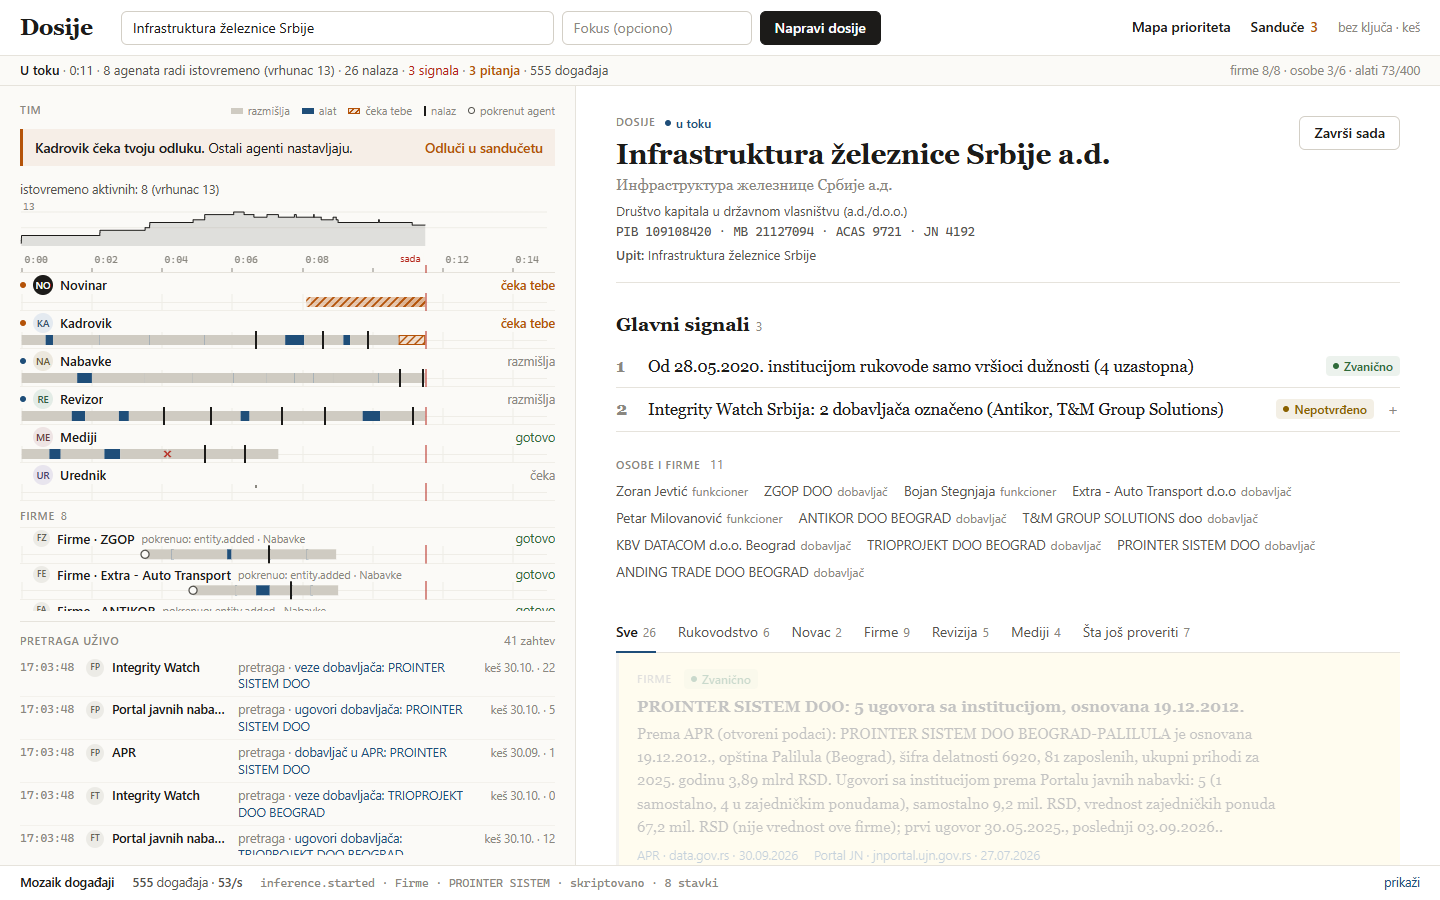
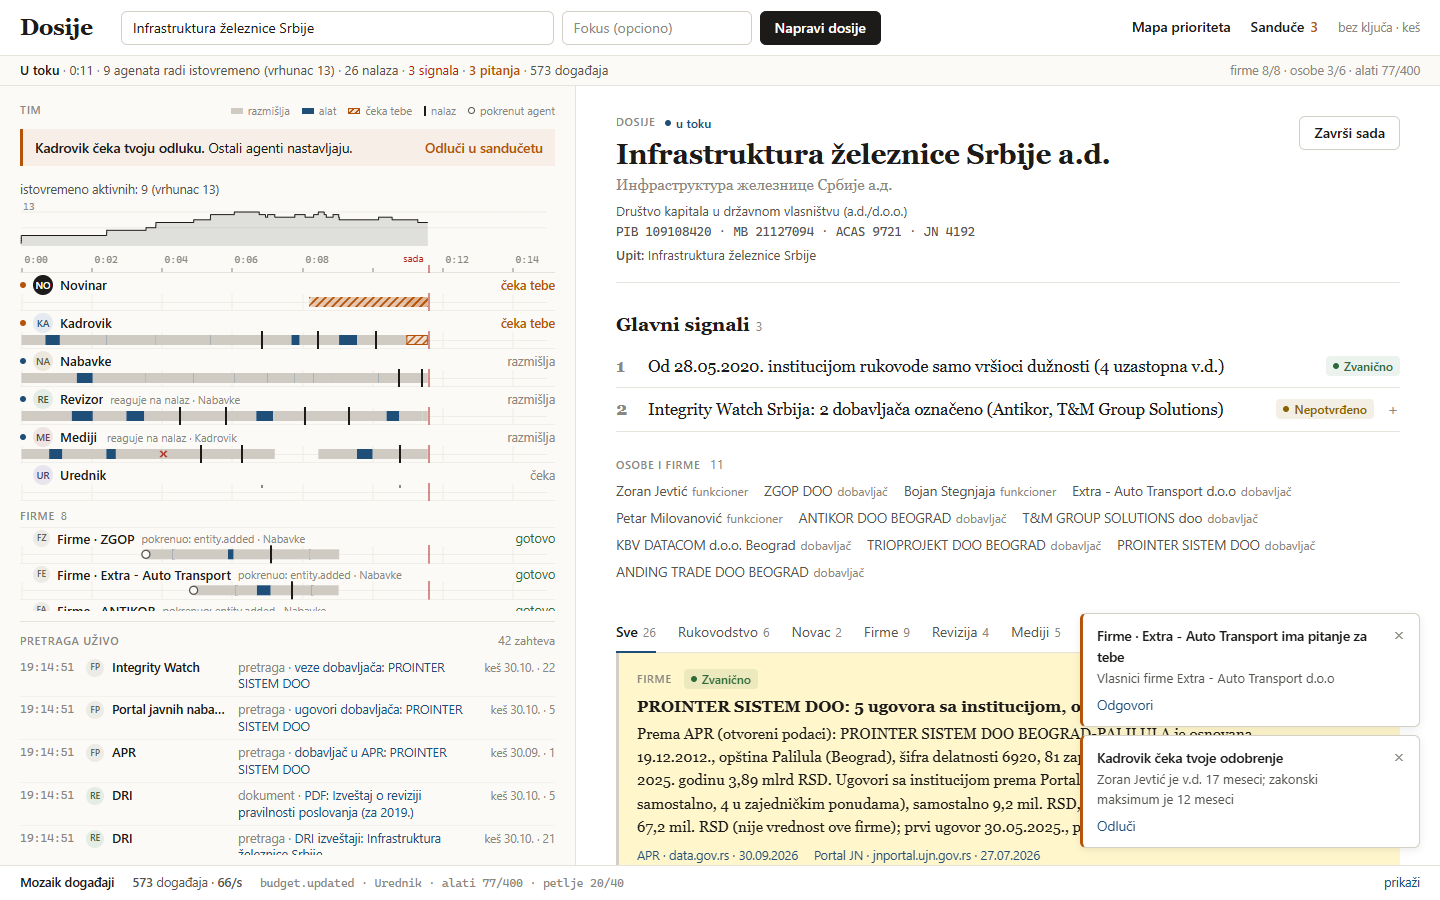
README hero shows cross-agent reactions; HOW_IT_WORKS reaction map + typical numbers

diff --git a/docs/HOW_IT_WORKS.md b/docs/HOW_IT_WORKS.md
@@ -92,13 +92,21 @@ Every agent's loop runs through the **UrednikGate** (`InterceptionHandler`).
   | `entity.added` (firm) | Fabrika spawns a Firme agent |
   | `entity.added` (person) | Fabrika spawns Imovina and Mediji agents |
   | `finding.added` | Urednik dedupes and resolves conflicts |
+  | `finding.added` VD_PREKO_ROKA / VD_LANAC (from Kadrovik) | **Mediji** opens a new loop that checks how outlets reported that appointment (feeds the conflict check) |
+  | `finding.added` BEZ_OBJAVE / KONCENTRACIJA (from Nabavke) | **Revizor** opens a new loop that looks for earlier DRI findings and files a corroborated finding citing both sources |
   | `odgovor.coveka` | a new loop for the agent that asked |
   | `message_received.started` / `model.answer` | completion tracking |
 
+  Each cross-agent reaction fires at most once per case and trigger. The loop's first message starts with
+  "Povod: nalaz <agent>: <title>", and an `agent.reakcija` event is published. The UI marks the lane "reaguje na nalaz
+  · <agent>".
 - **Every `runLoop` is fire-and-forget**, with its own fresh `ModelContext` and its own tools and gate instance.
   Contexts are mutated in place, so sharing an agent's memory across concurrent loops would interleave them.
-- **One scripted IŽS run:** peak **13 concurrent loops**, **21 agents** (16 spawned at runtime), ~105 tool calls and
-  ~880 Mozaik events in about 30 s.
+- **A typical scripted IŽS run (cached, three runs, stable):**
+  - peak of 13-14 concurrent loops;
+  - 19 agents, 14 of them spawned at runtime;
+  - 22 loops, about 100 tool calls and about 770 Mozaik events, in about 27 s.
+  - With an owner answer there are 21 agents and 25 loops.
 - **The evidence is checkable:**
   - the live Gantt and concurrency sparkline in the UI;
   - `out/trace-<case>.jsonl` (every event, written by the Zapisničar observer);
